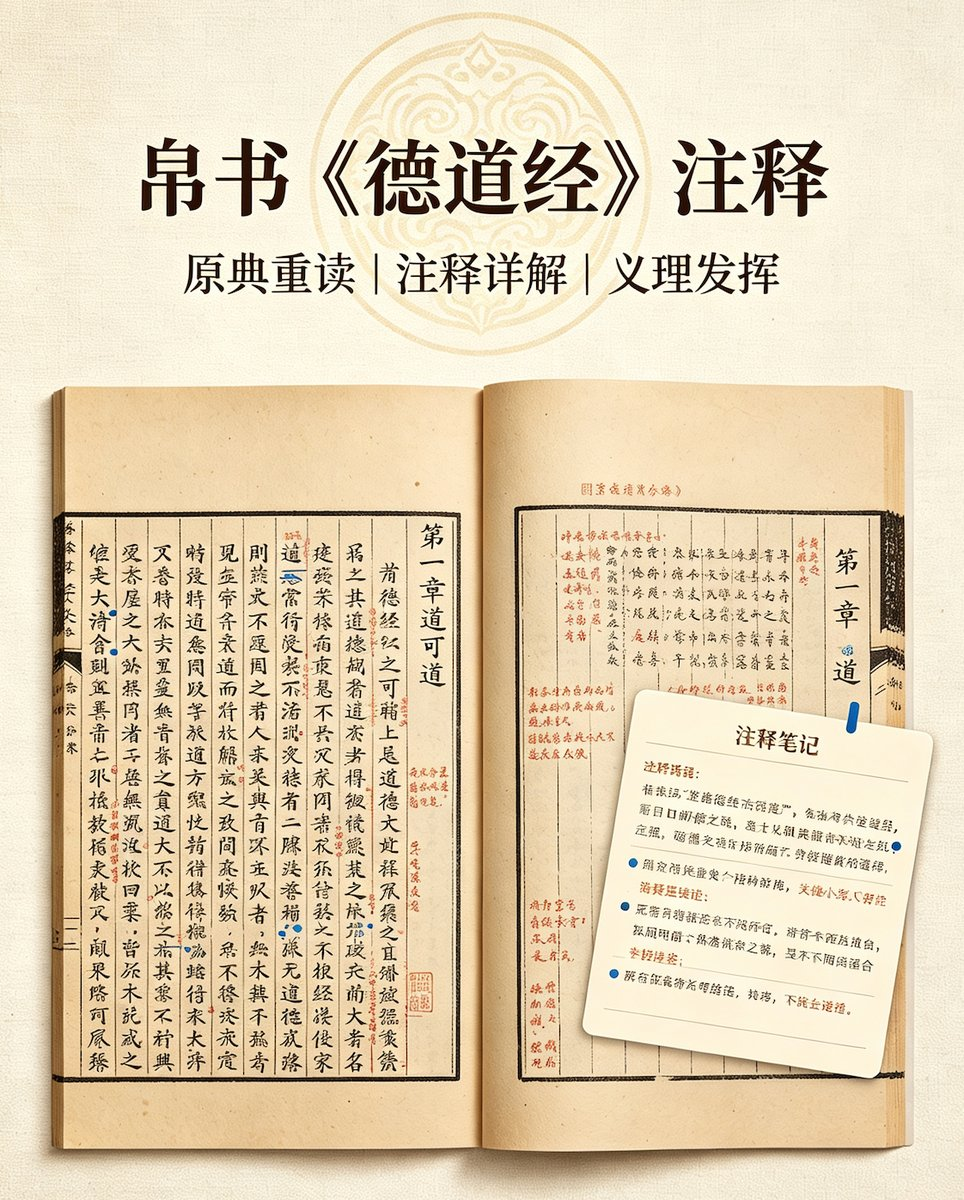
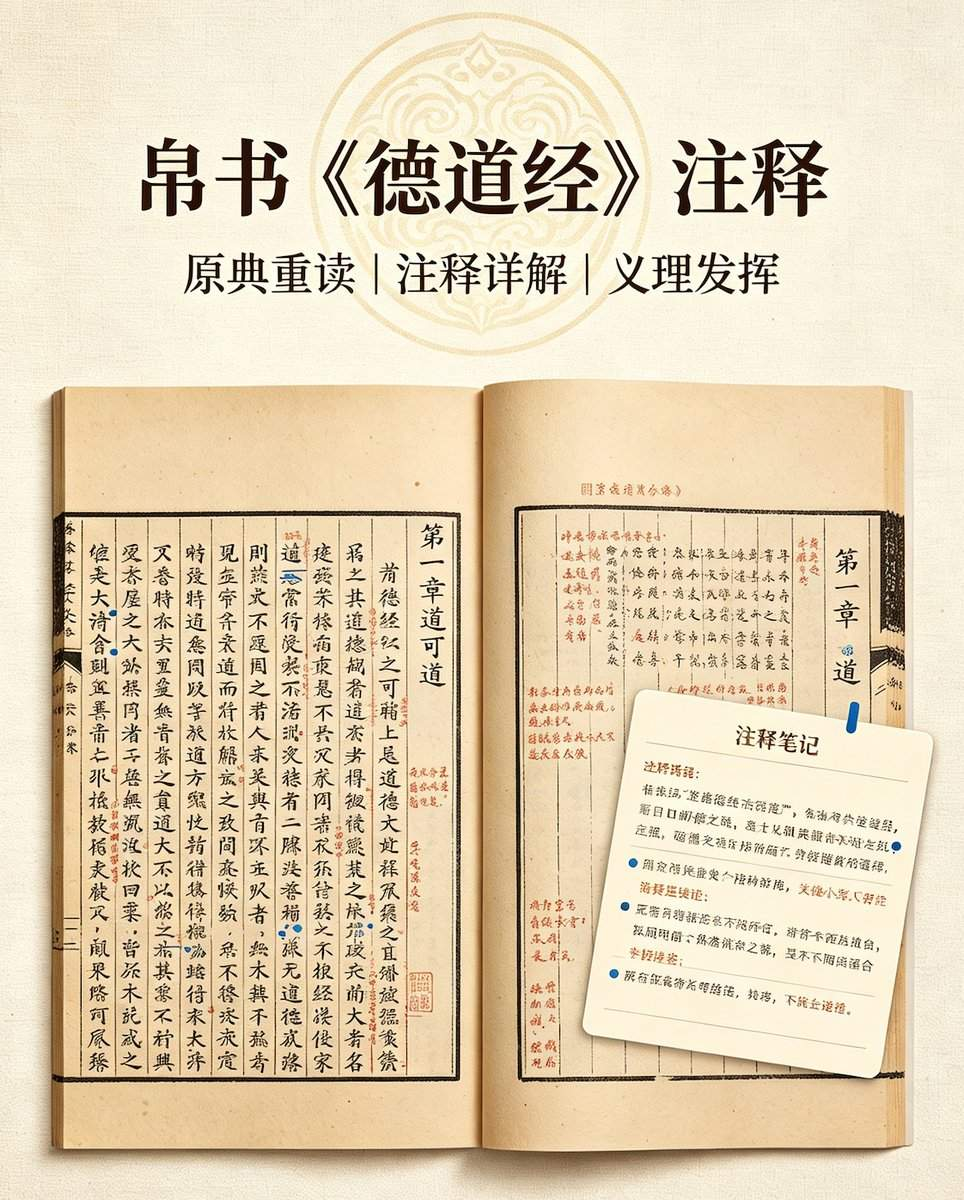
v1.11.185: 压缩boshu-dedaojing.jpg从301KB到174KB以通过小程序200KB限制

Changed region(s): [[0.2801, 0.7708, 0.3112, 0.8017], [0.1867, 0.7708, 0.2178, 0.8017], [0.0934, 0.4933, 0.1245, 0.5242]]

diff --git a/.workbuddy/memory/2026-08-21.md b/.workbuddy/memory/2026-08-21.md
@@ -137,3 +137,8 @@
 - **需求**: 下载页面底部tabbar图标颜色也变中国红
 - **实现**: pages.json tabBar.selectedColor #854D0E → #c41e3a
 - **部署**: H5 v1.11.184 → /h5/
+
+## 15:10 版本号修正到v1.11.185
+
+- gen-version.js因旧tag冲突导致版本回退到v1.11.183, 手动升级到v1.11.185
+- 构建部署H5 v1.11.185 → /h5/
